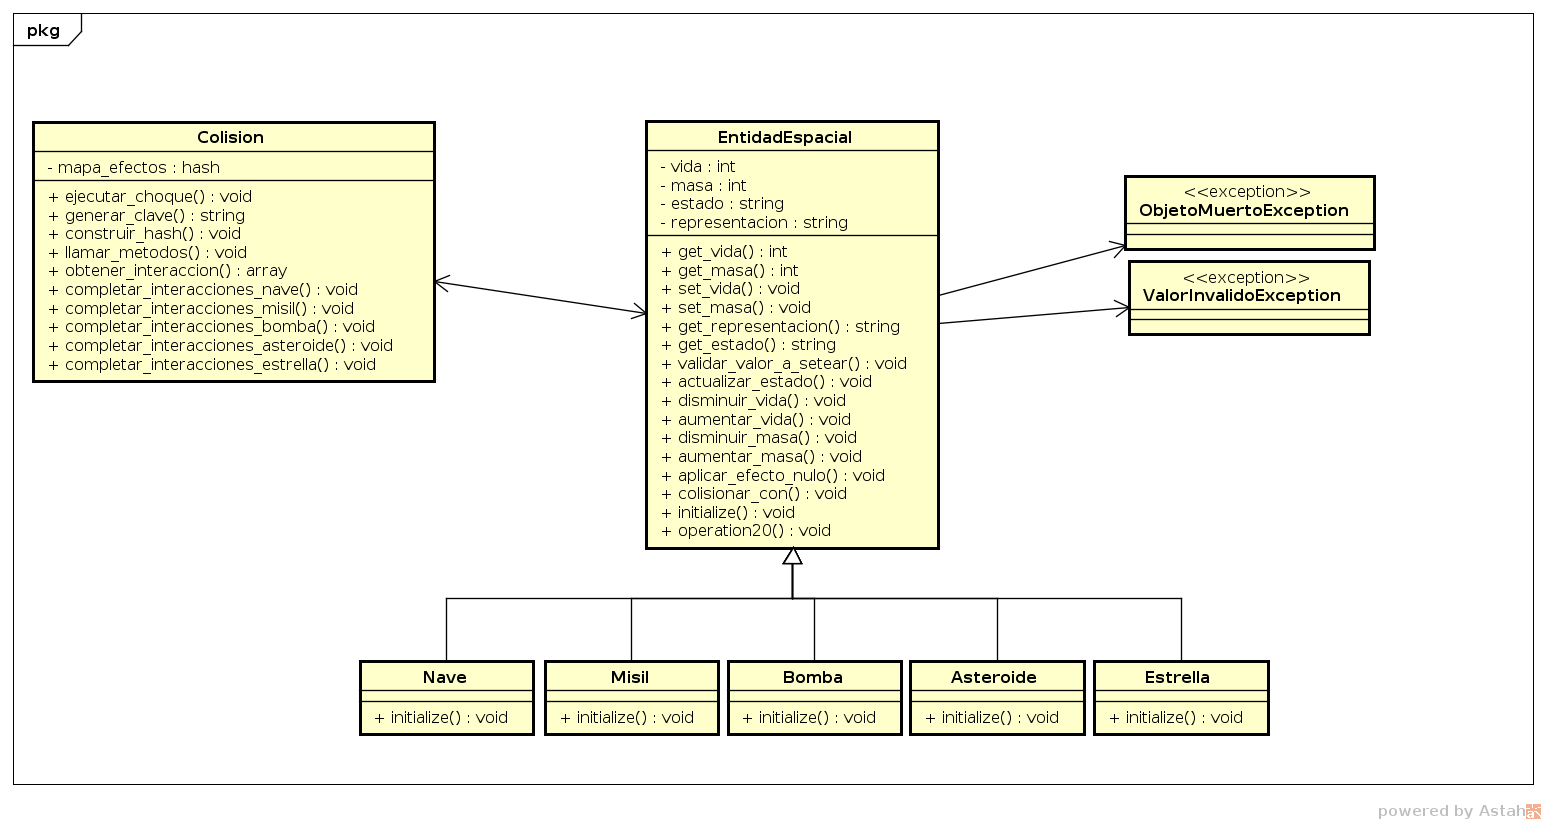
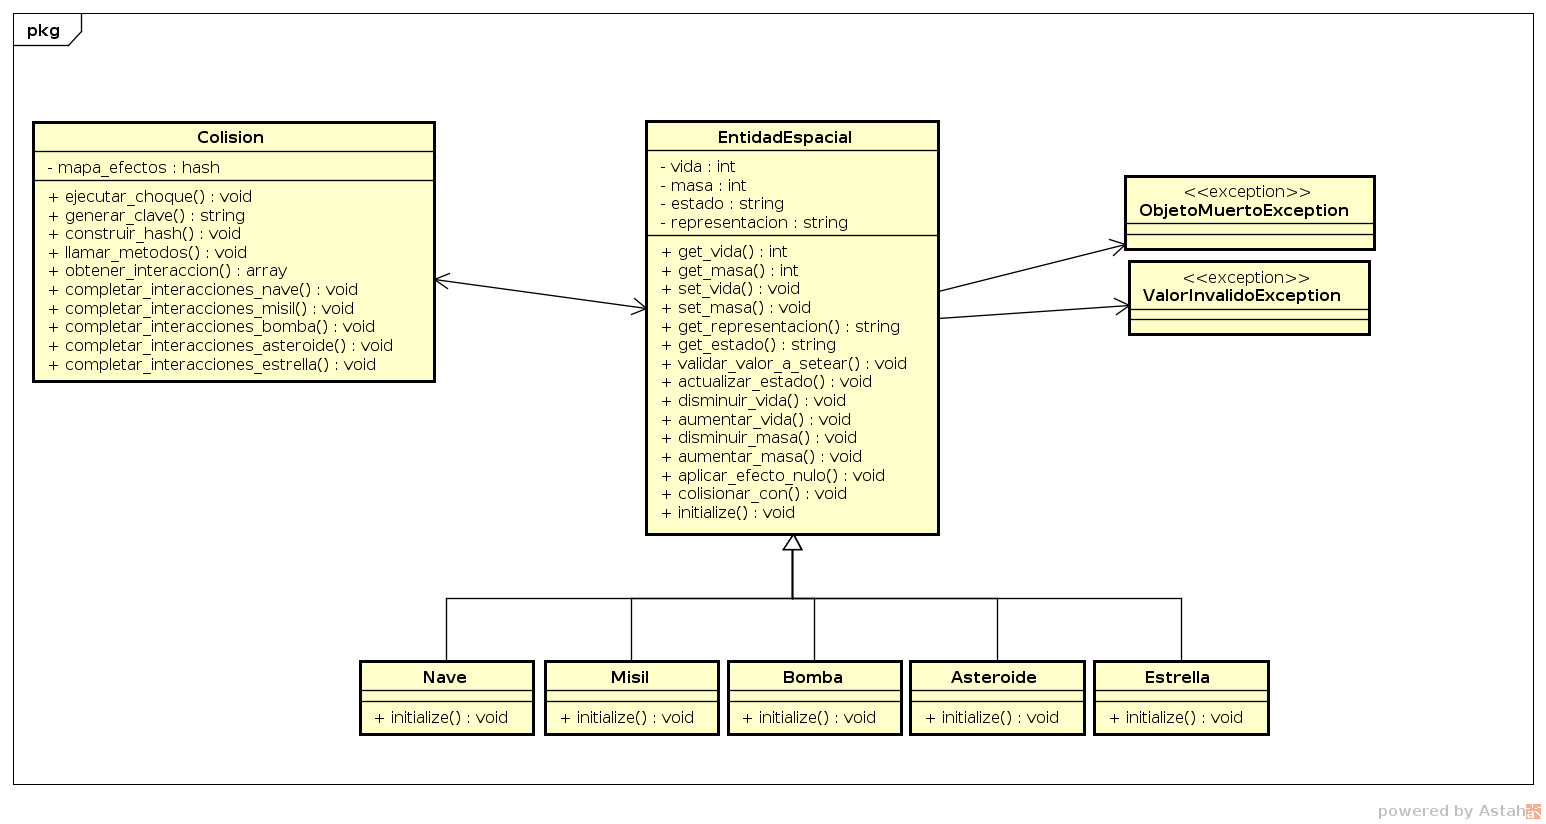
Corrijo un diagrama y actualizo el revision.md

diff --git a/Revision.md b/Revision.md
@@ -1,21 +1,25 @@
 Revisión del tp final de Gabriel Pena
 
 Observación 1: El Estado de la entidad espacial solo se representa con un string, recomiendo modelarlo como un objeto el cual posee dicho string. Podés aplicar el patrón State para llevarlo a cabo.
-
 Respuesta de Gabriel Pena: estaba seguro de que lo primero que me ibas a observar era esto, así que ya me había anticipado y expliqué el por qué de esta decisión en mi README.md. No lo tomo.
 
 Observación 2: Actualmente se puede setear la vida y la masa como un número negativo. Recomiendo crear una excepción para este caso ya que no se debería permitir números negativos para estos atributos.
-
 Respuesta de Gabriel Pena: lo tomo. Voy a agregar casos de tests en que una nave tenga que quedar en negativos y las condiciones que falten para que se vaya a 0, con sus correspondientes excepciones..
 
 Observación 3: Recomiendo cambiar el nombre del metodo obtener_metodos_y_parametros_correspondientes de la clase colision, ya que la ‘y’ señala que el metodo hace mas de una cosa y no es claro. 
-
 Respuesta de Gabriel Pena: esto ya lo había pensado, de hecho el metodo original se llamaba de forma distinta, y lo cambie justamente porque este nombre me parecia mas acorde que el anterior (era algo menos concreto, como obtener_reusltado o algo asi). Si se te ocurre un nombre mejor sugerimelo porque yo no encuentro uno.
 
 Observación 4: Recomiendo dividir el metodo obtener_metodos_y_parametros_correspondientes ya que posee demasiadas lineas y dificulta la lectura. Lo que haria es un metodo privado por cada objeto espacial en el cual se agregue las combinaciones para ese objeto espacial.
-
 Respuesta de Gabriel Pena: voy a tomarlo y a dividir el método como sugeris, son un par de refactors. Pero ojo porque le estas pifiando groso con algo: si los métodos que refactorice los pongo privados, luego si quisiera agregar objetos nuevos no podria redefinirlos y tendría que violar el Open Close Principle. 
 
 Observacion 5: En el metodo obtener_metodos_y_parametros_correspondientes, no hace falta asignar resultado = @mapa_efectos[clave_choque] solamente para hacer return resultado. Se podria hacer nada mas que return @mapa_efectos[clave_choque], o mejor aun, sin el return, ya que ruby retorna la ultima variable del metodo.
-
 Respuesta de Gabriel Pena: si, puede ser, fue un detalle y lo hice porque me era mas claro verlo asi. Pero lo cambio, total es una linea no hace diferencia.
+
+Observación 6: los metodos de la colision no siguen todos la misma notacion. Sugiero que cada metodo comience y termine con espacio.
+Respuesta de Gabriel Pena: esto no lo entendi del todo. No me parece que este mal. por ahi es un detalle que se me paso.
+
+Observacion 7: la clase colisión contiene demasiados métodos, lo que da la impresión de tener más de una responsabilidad. Sugiero dividirla en las clases que creas correspondientes.
+Respuesta de Gabriel Pena: no lo voy a tomar. No porque no tengas razón, a mi me dio la misma sensacion y de hecho lo aclare en mi readme. Lo que pasa es que no se me ocurre de que forma dividirla porque, pese a que hace un monton de cosas, en realidad lo que hace es definir el choque y darle a cada uno sus efectos correspondientes, y no veo que otra clase pueda tener esa responsabilidad. Lo que se me ocurre es quizas crear una clase aparte, que encapsule el hashmap. Pero estoy muy justo con el tiempo asi que lo voy a dejar asi. De todas formas, me parece que este smell es un precio razonable a pagar a cambio de tener un diseño facilmente extensible y que no viole el Open-Close.
+
+Observación 8: en la clase entidad espacial del diagrama de clases, figura un método llamado operation20, sugiero ponerle el nombre aue le corresponda a ese método.
+Respuesta de Gabriel Pena: ya lo corrijo
